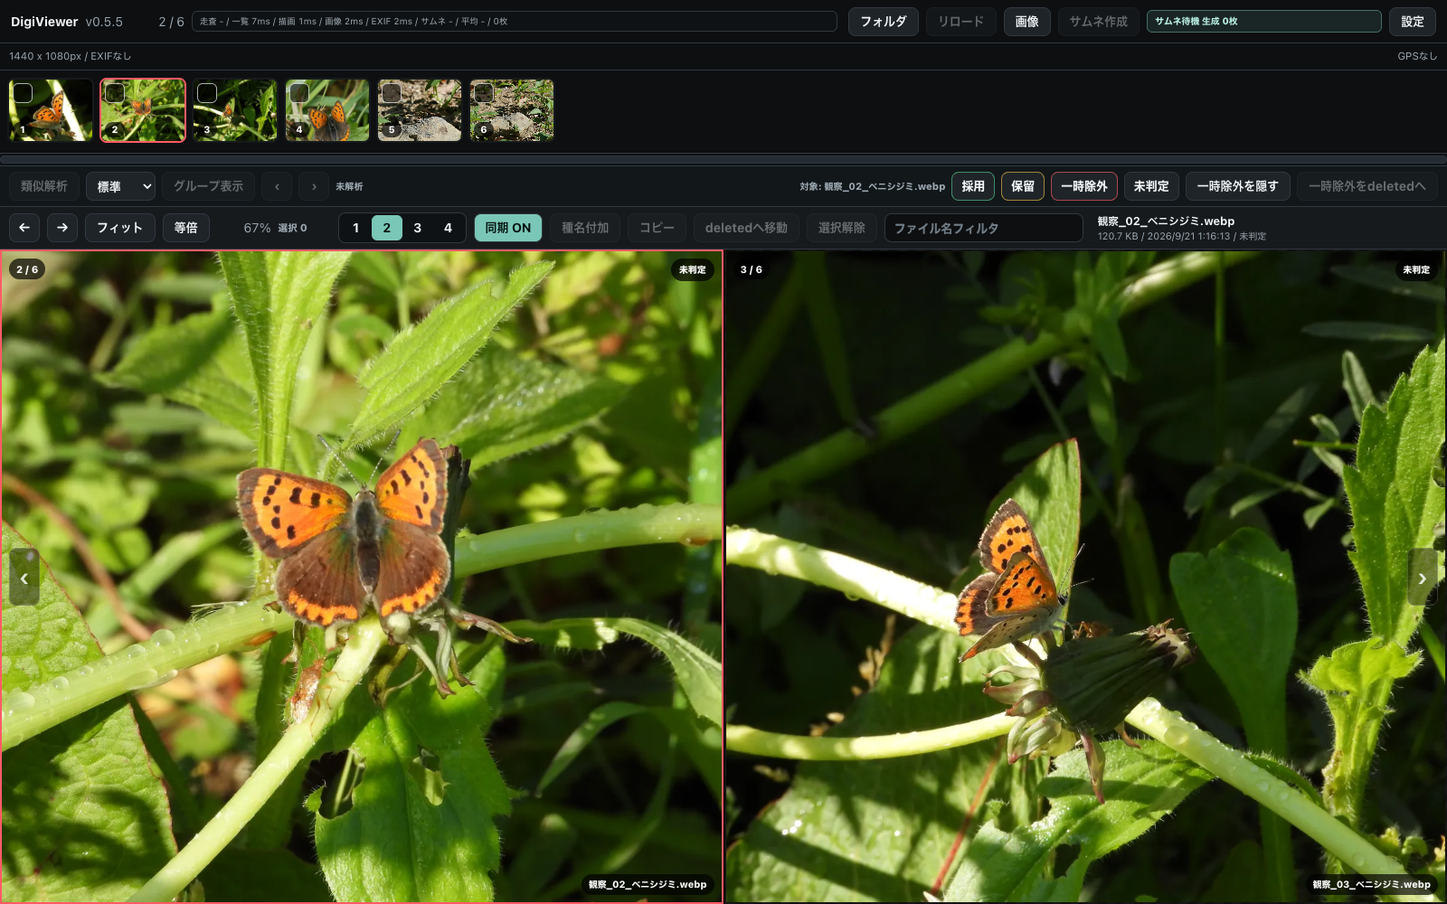
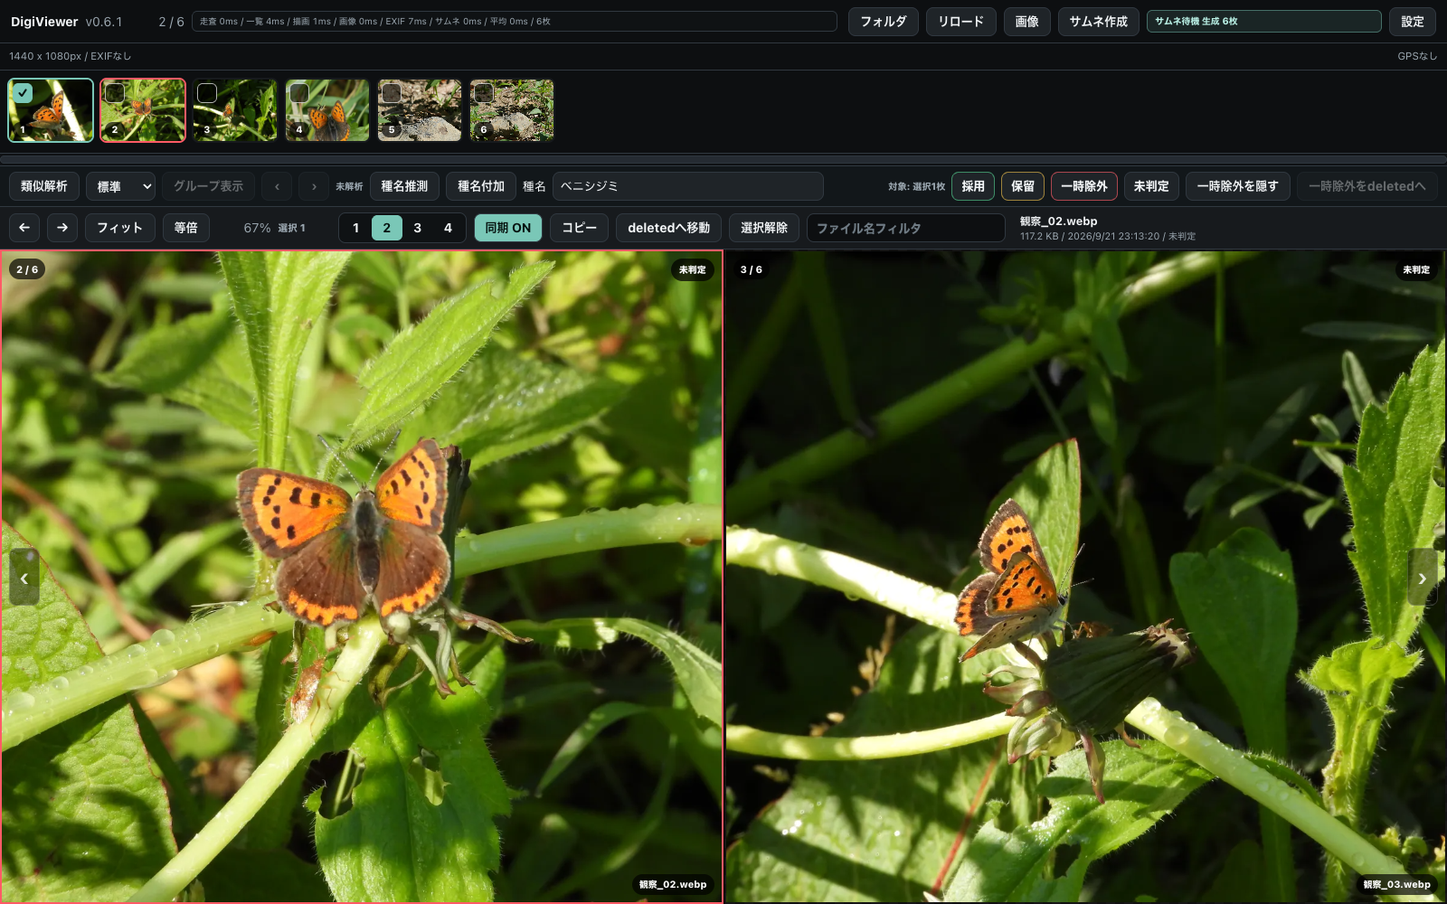
Improve species naming workflow and refresh the user manual

diff --git a/docs/manual/index.html b/docs/manual/index.html
@@ -122,8 +122,8 @@
               <tr><th scope="row">最上段</th><td>アプリ名・バージョン・件数、処理時間、フォルダ、リロード、画像、サムネ作成、作成状況、設定。</td></tr>
               <tr><th scope="row">画像情報</th><td>縦横のピクセル数、RAWの有無、撮影日時、カメラ・レンズ、撮影設定など。記録されている項目を表示します。</td></tr>
               <tr><th scope="row">サムネイル</th><td>写真の一覧とチェックボックス。下の横スクロールバーで離れた位置へ移動できます。</td></tr>
-              <tr><th scope="row">類似写真・評価バー</th><td>類似解析、グループ移動、採用・保留・一時除外など。右側の「対象」を確認して操作します。</td></tr>
-              <tr><th scope="row">操作バー</th><td>画像送り、倍率、比較枚数、同期、種名付加、コピー、deletedへ移動、フィルタ、ファイル情報。</td></tr>
+              <tr><th scope="row">類似写真・種名・評価バー</th><td>類似解析、グループ移動、種名推測、種名付加、種名フィールド、採用・保留・一時除外など。「対象」を確認して操作します。狭いウィンドウでは折り返して表示します。</td></tr>
+              <tr><th scope="row">操作バー</th><td>画像送り、倍率、比較枚数、同期、コピー、deletedへ移動、フィルタ、ファイル情報。</td></tr>
               <tr><th scope="row">写真表示エリア</th><td>1〜4枚の写真。左右端の矢印でも画像を送れます。各写真の右下にファイル名を表示します。</td></tr>
             </tbody>
           </table></div>
@@ -132,7 +132,7 @@
           <h3>撮影情報とGPS</h3>
           <p>EXIFに撮影日時や機材情報があれば、画像情報の行に表示します。「EXIFなし」は読み取れる情報がない状態です。GPSがあれば「地図」から撮影場所を確認できます。地図の読み込みにはインターネット接続が必要で、座標をOpenStreetMapに渡します。</p>
           <p>操作バーのファイル名の下にある日付は<strong>ファイルの更新日時</strong>です。EXIFの撮影日時とは異なる場合があります。</p>
-          <p class="meta">画面写真はv0.5.5の共通画面をブラウザで開き、観察サイト用画像で撮影しています。ネイティブ専用操作は一部無効表示です。作例はEXIFを含まないWebPで、個人のフォルダ名やGPSは表示していません。</p>
+          <p class="meta">画面写真はv0.6.1の画面をブラウザで操作して撮影しています。公開用の観察写真を使用し、個人のフォルダ名やGPSは表示していません。撮影用にファイル操作と追加機能の状態・判定結果を置き換えているため、実際の推測精度やOS固有の動作を示すものではありません。</p>
         </section>
 
         <section id="compare">
@@ -175,9 +175,10 @@
           <h3>種名をファイル名に付ける</h3>
           <ol>
             <li>対象の写真をチェックし、「種名付加」を押します。</li>
-            <li>種名を入力して「OK」を押します。</li>
+            <li>種名を確認・編集して「OK」を押します。「種名付加」の隣の種名フィールドに文字があれば初期値として入り、空ならダイアログも空で開きます。</li>
           </ol>
           <p>例：<code>DSC01234.JPG</code> → <code>DSC01234_ベニシジミ.JPG</code>。拡張子の前に種名を追加します。同じ名前のRAWがあれば、RAWも同じベース名へ変更します。通常はサムネイルキャッシュも引き継ぎます。</p>
+          <p>同じ生き物の写真に続けて種名を付けるときは、メイン画面の種名フィールドに入力しておくと便利です。フィールドの入力だけではファイル名は変わりません。値はアプリを開いている間だけ保持し、終了するとリセットされます。種名推測を導入しなくても使えます。</p>
           <p class="note">「種名付加」は種名以外の文字も追加できます。「卵」「幼虫」などの注釈や、「犬山市」などの撮影地をファイル名に残す用途にも使えます。例えば「ベニシジミ_幼虫_犬山市」と入力すると、<code>DSC01234_ベニシジミ_幼虫_犬山市.JPG</code> になります。</p>
           <h3>ファイルをコピーする</h3>
           <p>対象をチェックして「コピー」を押し、Finderまたはエクスプローラーで目的のフォルダへ貼り付けます。写真そのものをクリップボードに渡す操作です。<strong>同時記録されたRAWは自動ではコピーしません。</strong>RAWも必要な場合はファイル管理アプリからコピーしてください。</p>
@@ -244,7 +245,7 @@
           <h2>快適に使うための設定とキャッシュ</h2>
           <p>右上の「設定」から変更します。数値は入力後に別の項目をクリックするなどして確定してください。設定は自動で保存されます。</p>
           <figure class="small-figure">
-            <a href="images/settings.png"><img src="images/settings.png" alt="設定画面。本画像先読み、サムネ先読み、容量MB、計測表示、文字サイズ、サムネ整理、サムネ削除が並ぶ。" width="520" height="334" loading="lazy" /></a>
+            <a href="images/settings.png"><img src="images/settings.png" alt="設定画面。本画像先読み、サムネ先読み、容量MB、計測表示、文字サイズ、種名推測の追加機能、サムネ整理、サムネ削除が並ぶ。" width="520" height="594" loading="lazy" /></a>
             <figcaption>先読み、文字サイズ、キャッシュの管理は設定画面にまとまっています。</figcaption>
           </figure>
           <div class="table-wrap"><table>
@@ -276,10 +277,18 @@
           <ol>
             <li>「設定」の「種名推測（無料の追加機能）」で「無料の追加機能を導入」を押します。WindowsではまずCPU版を選べます。</li>
             <li>導入後に「有効にする」を押し、設定を閉じます。</li>
-            <li>写真を表示し「種名推測」を押します。日本で撮影した写真なら日本の生息記録を考慮する項目を選び、「この写真を判定」を押します。</li>
+            <li>写真を表示し、類似解析と同じ行の「種名推測」を押します。有効化するまでこのボタンは表示されません。日本で撮影した写真なら日本の生息記録を考慮する項目を選び、「この写真を判定」を押します。</li>
             <li>候補・相対スコア・写真全体と切り出しの順位・国内記録を写真と照合します。</li>
-            <li>必要なら「この候補を種名欄に入れる」を押し、確認・編集してから「この写真のファイル名に追加」を押します。同名のRAWも改名されます。</li>
+            <li>必要なら「この候補を種名欄に入れる」を押し、画面下の「確認した種名」を確認・編集します。この段階ではファイル名もメイン画面の種名フィールドも変わりません。</li>
           </ol>
+          <figure><a href="images/species-results.png"><img src="images/species-results.png" alt="種名推測の候補一覧。和名と学名、相対スコア、写真全体の順位と切り出しの支持数を表示する。" width="1600" height="1000" loading="lazy" /></a><figcaption>候補の読み方を示す表示例です。判定結果と数値は撮影用の固定データで、この写真の実測結果ではありません。</figcaption></figure>
+          <h3>確認した種名の使い方</h3>
+          <ul>
+            <li><strong>種名フィールドに設定：</strong>メイン画面の種名フィールドに設定します。ファイル名は変わりません。推測画面を閉じ、同じ生き物の写真をチェックして「種名付加」を押すと、その名前を初期値として使えます。</li>
+            <li><strong>この写真のファイル名に追加：</strong>判定した1枚のファイル名に種名を追加し、成功した場合はメイン画面の種名フィールドにも設定します。同じ場所にある同名のRAWも改名されます。チェック済みの写真全体への操作ではありません。</li>
+          </ul>
+          <figure><a href="images/species-actions.png"><img src="images/species-actions.png" alt="推測画面下部の確認した種名と、種名フィールドに設定、この写真のファイル名に追加の2つのボタン。" width="1600" height="1000" loading="lazy" /></a><figcaption>名前を確認してから、フィールドへの設定だけか、写真のファイル名への追加かを選びます。</figcaption></figure>
+          <p>写真全体の順位と切り出し5箇所での候補入り回数は、同じ写真からの補助情報です。模様などの特徴をAIが説明した根拠ではありません。国内記録は飼育や誤記録を含む可能性があり、記録がないことは日本にいない証明にはなりません。複数写真をまとめた判定には対応していません。</p>
           <p class="note">相対スコアは正解確率ではありません。高スコアでも誤ることや、正解が候補に含まれないことがあります。候補選択だけでは写真名は変わりません。判断できなければ閉じてください。和名辞書は12,580学名分を同梱し、一部の旧学名にも対応しています。候補を選ぶと和名が種名欄に入ります。未収録の候補は学名で表示し、和名を推測で補いません。「和名の出典」で元データを確認できます。0.6.0から更新する場合、追加モデルの再導入は不要です。</p>
           <h3>環境と保存先</h3>
           <p>Apple Silicon MacのCPU/MPSとWindows x64のCPU版で主要動作を確認しています。GPUは必須ではありません。WindowsのNVIDIA版は対応ドライバーがあるPC向けで、実機未検証です。</p>

diff --git a/src/species-option.ts b/src/species-option.ts
@@ -9,7 +9,7 @@ type Result = { candidates: Candidate[]; otherScore: number; device: string; sec
 const element = (tag: string, text = '') => { const node = document.createElement(tag); node.textContent = text; return node; };
 const button = (text: string, action: () => void) => { const node = document.createElement('button'); node.type = 'button'; node.className = 'tool-button'; node.textContent = text; node.addEventListener('click', action); return node; };
 
-export function setupSpeciesOption(options: { native: boolean; photo: () => Photo | null | undefined; rename: (path: string, name: string) => Promise<void> }) {
+export function setupSpeciesOption(options: { native: boolean; photo: () => Photo | null | undefined; rename: (path: string, name: string) => Promise<void>; setSpeciesName: (name: string) => void }) {
   const settings = document.querySelector<HTMLElement>('#species-settings')!;
   const statusText = document.querySelector<HTMLElement>('#species-setting-status')!;
   const controls = document.querySelector<HTMLElement>('#species-setting-controls')!;
@@ -84,13 +84,22 @@ export function setupSpeciesOption(options: { native: boolean; photo: () => Phot
         message.textContent = `${result.seconds}秒 / ${result.device.toUpperCase()} / ${result.japanApplied ? '日本の記録を考慮' : '地域補正なし'}`;
         results.append(element('p', '数値は候補間の相対スコアです。正解である確率ではありません。候補に正解が含まれないこともあります。'));
         if (result.warning) results.append(element('p', result.warning));
-        const draftLabel = element('label', '確認した種名（ファイル名に追加する文字）'); const draft = document.createElement('input'); draft.type = 'text'; draft.placeholder = '候補から選ぶか、自分で入力'; draftLabel.append(draft);
+        const draftLabel = element('label', '確認した種名'); const draft = document.createElement('input'); draft.type = 'text'; draft.placeholder = '候補から選ぶか、自分で入力'; draftLabel.append(draft);
+        const setField = button('種名フィールドに設定', () => {
+          const name = draft.value.trim();
+          if (!name) { message.textContent = '確認した種名を入力してください。'; return; }
+          options.setSpeciesName(name);
+          message.textContent = 'メイン画面の種名フィールドに設定しました。ファイル名は変更していません。';
+        });
         const rename = button('この写真のファイル名に追加', () => void (async () => {
           const name = draft.value.trim(); if (!name) { message.textContent = '確認した種名を入力してください。'; return; }
           rename.disabled = true;
-          try { await options.rename(target.path, name); message.textContent = '確認した名前をファイル名に追加しました。'; run.disabled = true; }
+          setField.disabled = true;
+          try { await options.rename(target.path, name); options.setSpeciesName(name); message.textContent = '確認した名前をファイル名に追加し、種名フィールドにも設定しました。'; run.disabled = true; }
           catch (error) { message.textContent = String(error); rename.disabled = false; }
+          finally { setField.disabled = false; }
         })());
+        const actions = element('div'); actions.className = 'species-controls'; actions.append(setField, rename);
         const list = element('ol');
         for (const candidate of result.candidates) {
           const row = element('li');
@@ -103,7 +112,7 @@ export function setupSpeciesOption(options: { native: boolean; photo: () => Phot
           row.append(button('この候補を種名欄に入れる', () => { draft.value = name ?? candidate.scientificName; message.textContent = '種名欄に入れました。まだファイル名は変更していません。写真と照合して確認してください。'; }));
           list.append(row);
         }
-        results.append(element('p', `和名は同梱辞書（${japaneseNameCount.toLocaleString()}学名、${japaneseNameDate}取得）から表示します。すべての種を網羅しているわけではなく、未収録の種は学名で表示します。`), list, element('p', `表示外の候補: ${(result.otherScore * 100).toFixed(1)}%。切り出しは同じ写真の補助情報です。模様などの形態的な根拠をAIが説明しているものではありません。国内記録は飼育・誤記録などを含む可能性があります。`), draftLabel, rename);
+        results.append(element('p', `和名は同梱辞書（${japaneseNameCount.toLocaleString()}学名、${japaneseNameDate}取得）から表示します。すべての種を網羅しているわけではなく、未収録の種は学名で表示します。`), list, element('p', `表示外の候補: ${(result.otherScore * 100).toFixed(1)}%。切り出しは同じ写真の補助情報です。模様などの形態的な根拠をAIが説明しているものではありません。国内記録は飼育・誤記録などを含む可能性があります。`), draftLabel, actions);
       } catch (error) { message.textContent = `判定できませんでした。${String(error)}`; }
       finally { run.disabled = false; await refresh(); }
     })());

diff --git a/index.html b/index.html
@@ -24,7 +24,6 @@
           <input id="open-files" class="hidden-file-input" type="file" accept="image/*,.heic,.heif" multiple />
           <button id="build-thumb-cache" type="button" class="tool-button" disabled>サムネ作成</button>
           <span id="thumb-cache-status" class="thumb-cache-status"></span>
-          <button id="species-identify-button" type="button" class="tool-button" hidden>種名推測</button>
           <button id="settings-button" type="button" class="tool-button">設定</button>
         </div>
       </header>
@@ -55,6 +54,12 @@
             <button id="previous-group" type="button" class="icon-button" title="前の類似グループ" disabled>‹</button>
             <button id="next-group" type="button" class="icon-button" title="次の類似グループ" disabled>›</button>
             <span id="similarity-status" class="similarity-status">未解析</span>
+            <div class="species-toolbar-controls">
+              <button id="species-identify-button" type="button" class="tool-button" hidden>種名推測</button>
+              <button id="append-species" type="button" class="tool-button" disabled>種名付加</button>
+              <label for="species-default-name">種名</label>
+              <input id="species-default-name" type="text" autocomplete="off" placeholder="種名付加の初期値" />
+            </div>
             <span class="similarity-spacer"></span>
             <span id="review-target" class="review-target">対象: 表示中</span>
             <button type="button" class="review-button review-keep" data-review-status="keep">採用</button>
@@ -79,7 +84,6 @@
               <button type="button" data-compare-count="4" aria-pressed="false">4</button>
             </div>
             <button id="sync-toggle" type="button" class="tool-button" aria-pressed="true">同期 ON</button>
-            <button id="append-species" type="button" class="tool-button" disabled>種名付加</button>
             <button id="copy-files" type="button" class="tool-button" disabled>コピー</button>
             <button id="move-deleted" type="button" class="tool-button" disabled>deletedへ移動</button>
             <button id="clear-file-selection" type="button" class="tool-button" disabled>選択解除</button>

diff --git a/src/main.ts b/src/main.ts
@@ -349,6 +349,7 @@ const elements = {
   mapButton: document.querySelector<HTMLButtonElement>("#map-button"),
   selectionCount: document.querySelector<HTMLElement>("#selection-count"),
   appendSpeciesButton: document.querySelector<HTMLButtonElement>("#append-species"),
+  speciesDefaultName: document.querySelector<HTMLInputElement>("#species-default-name"),
   copyFilesButton: document.querySelector<HTMLButtonElement>("#copy-files"),
   moveDeletedButton: document.querySelector<HTMLButtonElement>("#move-deleted"),
   clearSelectionButton: document.querySelector<HTMLButtonElement>("#clear-file-selection"),
@@ -389,6 +390,7 @@ const elements = {
 
 window.addEventListener("DOMContentLoaded", () => {
   setupSpeciesOption({
+    setSpeciesName: (name) => { if (elements.speciesDefaultName) elements.speciesDefaultName.value = name; },
     native: isTauriRuntime(),
     photo: activeImage,
     rename: async (path, speciesName) => {
@@ -1966,14 +1968,14 @@ async function appendSpeciesNameToCheckedImages() {
 function requestSpeciesName(count: number) {
   return new Promise<string | null>((resolve) => {
     if (!elements.speciesDialog || !elements.speciesNameInput) {
-      resolve(window.prompt(`${count}枚のファイル名に追加する種名を入力してください。`));
+      resolve(window.prompt(`${count}枚のファイル名に追加する種名を入力してください。`, elements.speciesDefaultName?.value ?? ""));
       return;
     }
 
     if (elements.speciesDialogMessage) {
       elements.speciesDialogMessage.textContent = `${count}枚のファイル名の最後に種名を追加します。`;
     }
-    elements.speciesNameInput.value = "";
+    elements.speciesNameInput.value = elements.speciesDefaultName?.value ?? "";
     elements.speciesDialog.hidden = false;
     elements.speciesNameInput.focus();
 

diff --git a/src/styles.css b/src/styles.css
@@ -246,6 +246,7 @@ button:disabled {
 
 .similarity-toolbar {
   display: flex;
+  flex-wrap: wrap;
   align-items: center;
   gap: 7px;
   min-width: 0;
@@ -264,6 +265,25 @@ button:disabled {
   color: var(--ink);
   font: inherit;
   font-weight: 700;
+}
+
+.species-toolbar-controls {
+  display: flex;
+  align-items: center;
+  gap: 7px;
+}
+
+.species-toolbar-controls label { white-space: nowrap; }
+#species-default-name {
+  width: 300px;
+  min-width: 0;
+  height: 32px;
+  padding: 0 8px;
+  border: 1px solid var(--line);
+  border-radius: 8px;
+  background: var(--panel-2);
+  color: var(--ink);
+  font: inherit;
 }
 
 .similarity-status,

diff --git a/docs/manual/README.md b/docs/manual/README.md
@@ -12,16 +12,20 @@
 
 ## 画面写真
 
-`images/` はv0.5.5の共通フロントエンドをChromeで操作して撮影した画面です。デスクトップのネイティブファイル処理を検証した写真ではありません。本文にも撮影条件を記載しています。
+`images/` はv0.6.1の共通フロントエンドをChromeで操作して撮り直した画面です。デスクトップのネイティブファイル処理を検証した写真ではありません。本文にも撮影条件を記載しています。
 
-公開用の観察写真を一時的なファイル入力から読み込み、個人のパスやGPSを含めず撮影しています。元の写真はマニュアルに別途コピーしていません。
+公開用の観察写真を撮影用のローカル経路から読み込み、個人のパスやGPSを含めず撮影しています。元の写真はマニュアルに別途コピーしていません。ファイル操作・種名推測の導入状態・判定結果は撮影用の固定応答に置き換えています。推測画面内と本文で固定データであることを表示し、実測結果や精度検証として扱いません。
 
 | ファイル | 操作 |
 | --- | --- |
-| `overview.png` | 1枚目をMでチェックし、右キーで2枚目へ移動 |
-| `compare.png` | チェックを解除し、2枚比較に切り替え |
+| `overview.png` | 1枚目をチェックし、右キーで2枚目へ移動。幅300pxの種名フィールドに入力 |
+| `compare.png` | 2枚比較に切り替え |
 | `crop.png` | 1枚表示に戻し、Shiftドラッグで範囲を選択、3:2を指定 |
 | `settings.png` | 範囲選択を取消後、設定ダイアログのみ撮影 |
+| `species-results.png` | 推測ダイアログを開き、表示例の候補を表示 |
+| `species-actions.png` | 候補を入力欄に入れ、下部の2つの操作ボタンを表示 |
+
+再撮影は `scripts/capture-manual.mjs` を使います。Viteを起動し、`DIGIVIEWER_MANUAL_PHOTOS` に以下の6画像があるディレクトリ、`DIGIVIEWER_PLAYWRIGHT_PACKAGE` にインストール済みPlaywrightの場所を設定して実行します。Chromeを使用し、元写真への書き込みや実際のモデル判定・ファイル変更は行いません。
 
 撮影に使用した画像は、同じ所有者の「デジタル観察のススメ」プロジェクトの `public/images/large/` にある公開用画像です。
 

diff --git a/CHANGELOG.md b/CHANGELOG.md
@@ -9,6 +9,12 @@ DigiViewerの主な変更履歴です。
 
 ## 0.6.1 - 2026-09-22
 
+### Changed
+
+- 種名推測・種名付加を類似解析と同じツールバーへ移動し、幅300pxの種名フィールドを追加。種名付加ダイアログの初期値として使い、アプリ終了時にリセットする。
+- 推測画面に「種名フィールドに設定」を追加。ファイル名を変更せず確認した名前を再利用でき、ファイル名への追加が成功した場合もフィールドへ反映する。
+- マニュアルに候補の読み方と種名フィールドの連携を追記し、既存4画面と推測画面2点を現行UIで撮影。推測画面の数値は説明用の固定データと明記。
+
 ### Fixed
 
 - 和名が9種しかなく、多くの候補が学名だけで表示される問題を修正。Wikidata（CC0）由来の12,580学名分を同梱し、和名の出典を確認できるようにした。
